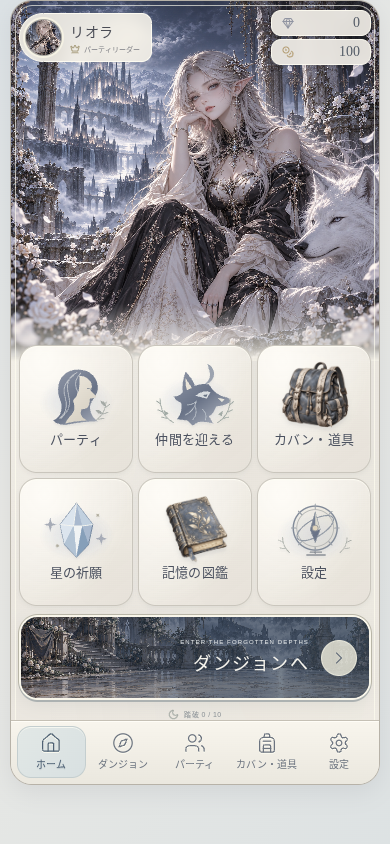
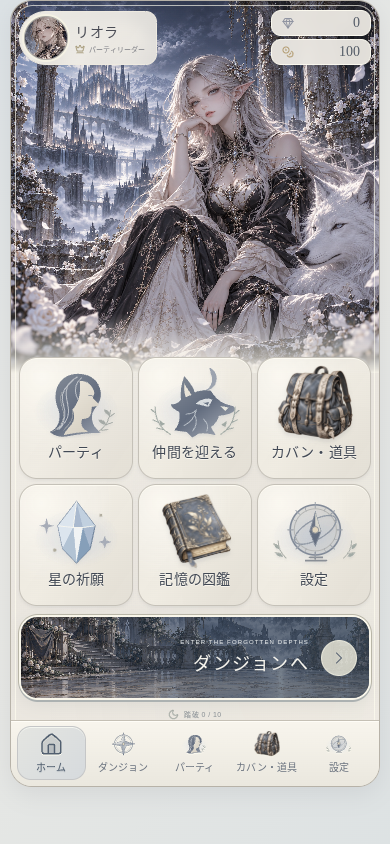
feat: bring portrait framing and engraved controls closer to reference

diff --git a/src/ui/battle.css b/src/ui/battle.css
@@ -69,16 +69,16 @@
 .battle-layout .enemy-line--1 .enemy-unit--boss .enemy-art { height: calc(100% + 65px); max-height: none; }
 .battle-layout .battle-toast { top: 76px; padding: 9px 17px; font-size: 11px; border-radius: 9px; color: #4f5a69; border-color: #c9c6bd; background: #f8f6eef2; box-shadow: 0 4px 17px #273b4e28; }
 .battle-layout .battle-toast.dialogue-toast { top: auto; bottom: 16px; width: 87%; padding: 12px 18px; line-height: 1.8; }
-.battle-layout .party-strip { position: relative; z-index: 3; display: grid; grid-template-columns: repeat(4,minmax(0,1fr)); gap: 5px; padding: 7px 8px 6px; margin: 0; border-radius: 15px 15px 0 0; border: 1px solid #c6c4ba; background: linear-gradient(#fcfaf3,#eeece3); box-shadow: 0 -3px 14px #20344712,inset 0 1px 0 #ffffff; }
+.battle-layout .party-strip { position: relative; z-index: 3; display: grid; grid-template-columns: repeat(4,minmax(0,1fr)); gap: 5px; padding: 7px 8px 6px; margin: 0; border-radius: 10px 10px 0 0; border: 1px solid #c6c4ba; background: linear-gradient(#f4f2e9,#e7e6df); box-shadow: 0 -3px 14px #20344712,inset 0 1px 0 #ffffff; }
 .battle-layout .party-unit { width: 100%; min-width: 0; }
-.battle-layout .party-unit > .character-portrait { padding: 0; width: 100%; gap: 3px; border-radius: 8px; border: 1px solid #bbbeb8; background: #f7f5ed; box-shadow: 0 1px 3px #43536619; }
-.battle-layout .party-strip .portrait-image { border-radius: 6px 6px 0 0; aspect-ratio: 1.22; }
-.battle-layout .party-strip .portrait-copy { padding-inline: 4px; padding-top: 1px; gap: 0; }
+.battle-layout .party-unit > .character-portrait { padding: 0; width: 100%; gap: 1px; border-radius: 5px; border: 1px solid #b6b9b3; background: #f0efe8; box-shadow: none; }
+.battle-layout .party-strip .portrait-image { border-radius: 3px 3px 0 0; aspect-ratio: 1.15; }
+.battle-layout .party-strip .portrait-copy { padding-inline: 3px; padding-top: 0; gap: 0; }
 .battle-layout .party-strip .portrait-copy strong { font-family: var(--font-display); font-size: 10px; line-height: 1.2; }
 .battle-layout .party-strip .portrait-constant { display: none; }
 .battle-layout .party-strip .leader-mark { width: 18px; height: 18px; left: 3px; top: 3px; background: #69737dd9; color: #f7edd5; }
 .battle-layout .party-strip .leader-mark svg { width: 10px; height: 10px; }
-.battle-layout .party-strip .hp-meter { padding: 3px 4px 4px; }
+.battle-layout .party-strip .hp-meter { padding: 2px 3px 3px; }
 .battle-layout .party-strip .hp-bar { height: 5px; background: #c9cfce; border: 1px solid #b5bfbd; border-radius: 7px; }
 .battle-layout .party-strip .hp-bar > span { background: linear-gradient(90deg,#739e99,#c3d5cc); }
 .battle-layout .party-hp { display: none; }
@@ -89,20 +89,21 @@
 .battle-layout .command-heading .toolbar { flex-shrink: 0; gap: 5px; }
 .battle-layout .command-heading .button { padding: 6px 10px; min-height: 44px; border-radius: 50px; background: #f4f1e7; font-size: 9px; border-color: #cacbc3; }
 /* A large tactile strategy selector replaces a decorative movement pad. */
-.battle-layout .strategy-options { grid-column: 1; grid-row: 2; width: min(100%,248px); aspect-ratio: 1; justify-self: center; display: flex; flex-direction: column; align-items: stretch; justify-content: center; gap: 6px; margin: 0; padding: 29px 25px; border: 1px solid #9caeb8; border-radius: 50%; background: radial-gradient(ellipse at 34% 18%,#f7faf9,#d4dee1 46%,#adbfc9 76%,#91a7b7); box-shadow: inset 0 1px 0 #fffefa,inset 0 0 0 5px #edf0ed,inset 0 0 0 6px #9eadba,inset 0 0 0 10px #d6dfe3,inset 0 0 0 11px #a5b7c466,0 4px 10px #41556722; }
-.battle-layout .strategy-options .button { flex: 0 0 auto; min-height: 52px; padding: 7px 12px; display: flex; flex-direction: row; align-items: center; justify-content: flex-start; gap: 10px; border: 1px solid #b8c3ca78; border-radius: 28px; background: linear-gradient(135deg,#f4f7f4a6,#dce3e442); color: #526c80; box-shadow: inset 0 1px 0 #f8faf6d9,0 1px 2px #526a7b0d; }
+.battle-layout .strategy-options { grid-column: 1; grid-row: 2; width: min(100%,248px); aspect-ratio: 1; justify-self: center; display: flex; flex-direction: column; align-items: stretch; justify-content: center; gap: 6px; margin: 0; padding: 29px 25px; border: 1px solid #9caeb8; border-radius: 50%; background: radial-gradient(ellipse at 35% 18%,#e4e4de,#bfc4c5 65%,#a8b0b5); box-shadow: inset 0 1px 0 #f6f4eb,inset 0 0 0 4px #e6e5df,inset 0 0 0 5px #9da7ad,inset 0 0 0 8px #c6cbcd,inset 0 0 0 9px #adb3b780,0 3px 8px #414b5420; }
+.battle-layout .strategy-options .button { flex: 0 0 auto; min-height: 52px; padding: 7px 12px; display: flex; flex-direction: row; align-items: center; justify-content: flex-start; gap: 10px; border: 1px solid #b8c3ca78; border-radius: 28px; background: linear-gradient(135deg,#e8e8e3b8,#d1d5d44a); color: #465661; box-shadow: inset 0 1px 0 #f3f2e9b0,0 1px 2px #526a7b0d; }
 .battle-layout .strategy-options .button:not(.is-selected):hover:not(:disabled) { border-color: #8da5b6; background: #f1f6f3c9; box-shadow: inset 0 1px 0 #ffffff,0 1px 3px #526a7b1c; }
-.battle-layout .strategy-options .button.is-selected { background: radial-gradient(ellipse at 32% 5%,#b3c4ce,#7c96a9 62%,#617e96); color: #ffffff; border-color: #92a7b8; box-shadow: inset 0 1px 0 #ecf3f4,inset 0 0 0 2px #d8e3e975,0 2px 4px #3a4d5c21; }
+.battle-layout .strategy-options .button.is-selected { background: linear-gradient(150deg,#89959c,#667580); color: #ffffff; border-color: #7b8a94; box-shadow: inset 0 1px 0 #dce0dd99,inset 0 0 0 1px #c1c9cd70,0 1px 3px #3a4d5c21; }
 .battle-layout .strategy-options .button > svg { box-sizing: border-box; width: 26px; height: 26px; padding: 0; stroke-width: 1.5; border: 0; background: transparent; box-shadow: none; filter: drop-shadow(0 1px 0 #ffffff60); }
 .battle-layout .strategy-options .button.is-selected > svg { filter: drop-shadow(0 1px 2px #3d526551); }
 .battle-layout .strategy-options .button > span { display: block; font-family: var(--font-display); font-size: 13px; line-height: 1.4; white-space: nowrap; }
 .battle-layout .strategy-options .button small { display: none; }
 .battle-layout .command-actions { grid-column: 2; grid-row: 2; display: grid; width: 100%; grid-template-columns: 1fr auto; align-items: center; justify-items: center; gap: 10px 8px; }
-.battle-layout .command-actions .battle-item-control { grid-column: 1; grid-row: 2; width: 86px; height: 86px; min-height: 86px; padding: 10px; border-radius: 50%; display: flex; flex-direction: column; gap: 4px; border: 1px solid #aebec0; background: radial-gradient(circle at 35% 23%,#ffffff,#d4dfe0 58%,#b5c6ca); box-shadow: inset 0 1px 0 #ffffff,inset 0 0 0 4px #f3f6f0,inset 0 0 0 5px #aabdc2,inset 0 0 0 8px #e0e9e6,0 4px 8px #4155621c; color: #4f6d7e; }
+.battle-layout .command-actions .battle-item-control { grid-column: 1; grid-row: 2; width: 86px; height: 86px; min-height: 86px; padding: 10px; border-radius: 50%; display: flex; flex-direction: column; gap: 4px; border: 1px solid #aebec0; background: radial-gradient(circle at 35% 23%,#e9e8df,#c5cbca 65%,#acb7bc); box-shadow: inset 0 1px 0 #f4f2e8,inset 0 0 0 3px #e6e6dd,inset 0 0 0 4px #a1aeb4,inset 0 0 0 6px #d3d8d5,0 3px 6px #41556218; color: #465b67; }
+.battle-layout .battle-item-control > svg { width: 28px; height: 28px; flex-shrink: 0; }
 .battle-layout .battle-item-control > span { font-size: 11px; line-height: 1.2; }
 .battle-layout .battle-item-control small { margin-left: 3px; font-family: var(--font-display); }
-.battle-layout .command-actions .battle-advance-control { grid-column: 1 / -1; grid-row: 1; width: 164px; height: 164px; min-height: 164px; padding: 23px 14px; border-radius: 50%; display: flex; flex-direction: column; gap: 10px; border: 1px solid #a6b2bd; background: radial-gradient(ellipse at 35% 15%,#d2dae1,#98aabd 38%,#778da3 72%,#657b92); color: #ffffff; box-shadow: inset 0 1px 0 #ffffff,inset 0 0 0 4px #eff0eb,inset 0 0 0 5px #899aac,inset 0 0 0 8px #cbd4dc,inset 0 0 0 9px #9aaabc,0 5px 12px #3a4e5f30; text-shadow: 0 1px 3px #3f566b70; }
-.battle-layout .battle-advance-control > svg { width: 43px; height: 43px; filter: drop-shadow(0 1px 3px #31475e2b); }
+.battle-layout .command-actions .battle-advance-control { grid-column: 1 / -1; grid-row: 1; width: 164px; height: 164px; min-height: 164px; padding: 23px 14px; border-radius: 50%; display: flex; flex-direction: column; gap: 10px; border: 1px solid #a6b2bd; background: radial-gradient(ellipse at 35% 18%,#a4acb3,#818d9a 57%,#6c7988); color: #f7f5ed; box-shadow: inset 0 1px 0 #e9e8df,inset 0 0 0 3px #e5e4dc,inset 0 0 0 4px #8a949e,inset 0 0 0 7px #bcc3ca,inset 0 0 0 8px #939da8,0 3px 8px #3a4e5f28; text-shadow: 0 1px 2px #3f4d5970; }
+.battle-layout .battle-advance-control > svg { width: 61px; height: 61px; filter: drop-shadow(0 1px 3px #31475e2b); }
 .battle-layout .battle-advance-control > span { max-width: 110px; font-family: var(--font-display); font-size: 13px; line-height: 1.4; text-align: center; }
 .battle-layout .command-actions .battle-retreat-control { grid-column: 2; grid-row: 2; width: 44px; height: 44px; min-height: 44px; padding: 9px; border-radius: 50%; border: 1px solid #c6c8c1; background: #f2f0e7; color: #8a9394; }
 .battle-layout .command-note { grid-column: 1 / -1; grid-row: 3; margin: 0; font-size: 9px; letter-spacing: .02em; color: #909995; }
@@ -124,7 +125,7 @@
   .battle-layout .enemy-line--1 .enemy-name { font-size: 16px; }
   .battle-layout .enemy-line--1 .enemy-art { height: calc(100% + 65px); padding: 0; }
   .battle-layout .party-strip { padding: 6px 6px 5px; gap: 4px; }
-  .battle-layout .party-strip .portrait-image { aspect-ratio: 1.13; }
+  .battle-layout .party-strip .portrait-image { aspect-ratio: 1.08; }
   .battle-layout .party-strip .portrait-copy strong { font-size: 9px; }
   .battle-layout .command-pad { grid-template-columns: minmax(0,1fr) 132px; column-gap: 12px; row-gap: 6px; padding: 11px 13px 10px; }
   .battle-layout .command-heading { margin: 0; }
@@ -136,7 +137,8 @@
   .battle-layout .command-actions { grid-template-columns: 76px 44px; justify-content: center; gap: 8px; }
   .battle-layout .command-actions .battle-item-control { width: 72px; height: 72px; min-height: 72px; padding: 8px; }
   .battle-layout .command-actions .battle-advance-control { width: 126px; height: 126px; min-height: 126px; padding: 18px 10px; gap: 7px; }
-  .battle-layout .battle-advance-control > svg { width: 36px; height: 36px; }
+  .battle-layout .battle-advance-control > svg { width: 52px; height: 52px; }
+  .battle-layout .battle-item-control > svg { width: 24px; height: 24px; }
   .battle-layout .battle-advance-control > span { max-width: 92px; font-size: 11px; }
   .battle-layout .command-note { font-size: 8px; margin: 0; text-align: left; padding-left: 6px; }
 

diff --git a/src/screens/GameViews.tsx b/src/screens/GameViews.tsx
@@ -1,6 +1,6 @@
 import { useState } from 'react';
 import { ArrowRight, Backpack, BookOpen, ChevronRight, CircleHelp, Coins, Compass, Crown, Gem, Heart, Hexagon, Moon, Plus, Shield, Sparkles, Swords, Users, Volume2, VolumeX, WandSparkles, FlaskConical, Check, DoorOpen, FastForward, Play, Package, Settings, Feather } from 'lucide-react';
-import { Button, Panel, CharacterPortrait, MaterialIcon, HPBar, Modal, MenuEmblem, EnemyCarousel, SceneEffects, TownNavigation } from '../ui';
+import { Button, Panel, CharacterPortrait, MaterialIcon, HPBar, Modal, MenuEmblem, EnemyCarousel, SceneEffects, TownNavigation, CommandEmblem } from '../ui';
 import { content, assetPath, characterById, materialName, roleName } from '../content';
 import { characterStats, dungeonDifficulty, leaderBonus, recruitCost } from '../domain/engine';
 import type { Battle, CharacterDef, GameCommand, GameSave, Rarity, Strategy, Unit } from '../domain/types';
@@ -106,7 +106,7 @@ export function BattleView(p: ViewProps) {
   const items = Object.entries(battle.pendingMaterials).filter(([, n]) => n > 0);
   const total = items.reduce((n, [, amount]) => n + amount, 0) - (battle.phase === 'playing' ? battle.events.slice(battle.cursor).filter(e => e.kind === 'drop').length : 0);
   const displayRound = battle.phase === 'playing' && battle.events.some(e => ['attack', 'area', 'heal', 'guard', 'buff', 'debuff'].includes(e.kind)) ? Math.max(1, battle.round - 1) : battle.round;
-  const strategies: { id: Strategy; name: string; icon: typeof Shield; sub: string }[] = [{ id: 'balanced', name: '均衡', icon: Compass, sub: '回復を織り交ぜる' }, { id: 'aggressive', name: '攻撃重視', icon: Swords, sub: '強敵を狙う' }, { id: 'survival', name: '生存重視', icon: Shield, sub: '早めの回復' }];
+  const strategies: { id: Strategy; name: string }[] = [{ id: 'balanced', name: '均衡' }, { id: 'aggressive', name: '攻撃重視' }, { id: 'survival', name: '生存重視' }];
   const reward = battle.phase === 'reward', failed = battle.phase === 'failed';
   if (reward || failed) return <><PageTitle eyebrow={reward ? 'EXPLORATION COMPLETE' : 'THE JOURNEY CONTINUES'} title={reward ? '探索の記録' : '探索終了'} text={dungeon.name} /><Panel className="result-panel">{reward ? <Sparkles size={38} /> : <Moon size={38} />}<h2>{reward ? '獲得素材' : '今回の素材は失われました。'}</h2>{reward ? <><div className="resource-list">{items.map(([id, n]) => <div className="resource-item" key={id}><MaterialIcon rarity={id.split(':')[1] as Rarity} /><span>{materialName(id)}</span><strong>×{n}</strong></div>)}</div><div className="reward-summary"><span><Coins size={17} /> 撃破 {battle.goldEarned} G（取得済み）</span><span>クリア +20 G</span>{!p.save.completedDungeonIds.includes(dungeon.id) && <span><Gem size={17} /> 初踏破 +1</span>}</div><p className="subtle">確定するまで素材は仮取得です。</p><Button size="lg" disabled={p.busy} onClick={() => p.command({ type: 'claim' })}><Check size={18} /> 獲得を確定</Button></> : <><p>{battle.failureReason ?? 'パーティは廃都から帰還しました。'}</p><p className="subtle">ゴールド・敵の記録は保持。次回は全回復で出発します。</p><Button size="lg" disabled={p.busy} onClick={() => p.command({ type: 'leaveFailure' })}>街へ戻る <ArrowRight size={16} /></Button></>}</Panel></>;
   return <div className="battle-layout">
@@ -131,10 +131,10 @@ export function BattleView(p: ViewProps) {
     </div>
     <Panel className="command-pad">
       <div className="command-heading"><span className="eyebrow">{usingPotion ? '回復する仲間を選択' : battle.phase === 'playing' ? '行動中' : '作戦'}</span><div className="toolbar">{usingPotion && <Button size="sm" variant="secondary" onClick={() => setUsingPotion(false)}>取消</Button>}<Button variant="icon" title={p.save.settings.seVolume === 0 ? '効果音を有効にする' : '効果音をミュート'} disabled={p.busy} onClick={() => p.command({ type: 'settings', settings: { seVolume: p.save.settings.seVolume === 0 ? 0.5 : 0 } })}>{p.save.settings.seVolume === 0 ? <VolumeX size={17} /> : <Volume2 size={17} />}</Button><Button size="sm" variant="secondary" disabled={p.busy} title="演出速度" onClick={() => p.command({ type: 'settings', settings: { speed: p.save.settings.speed === 1 ? 2 : 1 } })}><FastForward size={14} /> ×{p.save.settings.speed}</Button></div></div>
-      <div className="strategy-options" aria-label="作戦を選ぶ">{strategies.map(st => <Button variant={battle.strategy === st.id ? 'primary' : 'secondary'} selected={battle.strategy === st.id} key={st.id} disabled={p.busy || battle.phase !== 'ready'} onClick={() => p.command({ type: 'strategy', strategy: st.id })}><st.icon size={27} strokeWidth={1.25} /><span>{st.name}<small>{st.sub}</small></span></Button>)}</div>
+      <div className="strategy-options" aria-label="作戦を選ぶ">{strategies.map(st => <Button variant={battle.strategy === st.id ? 'primary' : 'secondary'} selected={battle.strategy === st.id} key={st.id} disabled={p.busy || battle.phase !== 'ready'} onClick={() => p.command({ type: 'strategy', strategy: st.id })}><CommandEmblem kind={st.id} /><span>{st.name}</span></Button>)}</div>
       <div className="command-actions">
-        <Button variant="secondary" className="battle-item-control" disabled={p.busy || battle.phase !== 'ready' || battle.potionUsed || !battle.potionsRemaining} onClick={() => setUsingPotion(!usingPotion)}><FlaskConical size={30} strokeWidth={1.2} /><span>回復薬 <small>{battle.potionsRemaining}</small></span></Button>
-        {battle.phase === 'playing' ? <Button size="lg" className="battle-advance-control" disabled={p.busy} onClick={() => p.command({ type: 'replay' })} aria-label="次の演出へ"><FastForward size={35} strokeWidth={1.1} /><span>次の演出へ</span></Button> : <Button size="lg" className="battle-advance-control" disabled={p.busy || usingPotion} onClick={() => p.command({ type: 'round' })} aria-label="ラウンドを進める"><Play size={36} strokeWidth={1.1} /><span>ラウンドを進める</span></Button>}
+        <Button variant="secondary" className="battle-item-control" disabled={p.busy || battle.phase !== 'ready' || battle.potionUsed || !battle.potionsRemaining} onClick={() => setUsingPotion(!usingPotion)}><CommandEmblem kind="potion" /><span>回復薬 <small>{battle.potionsRemaining}</small></span></Button>
+        {battle.phase === 'playing' ? <Button size="lg" className="battle-advance-control" disabled={p.busy} onClick={() => p.command({ type: 'replay' })} aria-label="次の演出へ"><CommandEmblem kind="replay" /><span>次へ</span></Button> : <Button size="lg" className="battle-advance-control" disabled={p.busy || usingPotion} onClick={() => p.command({ type: 'round' })} aria-label="ラウンドを進める"><CommandEmblem kind="advance" /><span>進める</span></Button>}
         <Button variant="icon" className="battle-retreat-control" title="撤退" disabled={p.busy || battle.phase !== 'ready'} onClick={() => setRetreat(true)}><DoorOpen size={20} strokeWidth={1.3} /></Button>
       </div>
     </Panel>

diff --git a/src/ui/home.css b/src/ui/home.css
@@ -22,7 +22,7 @@
 }
 .hub-illustration {
   position: relative;
-  height: 410px;
+  height: 422px;
   margin: 0 -11px;
   overflow: hidden;
   border-radius: 27px 27px 0 0;
@@ -31,7 +31,7 @@
   width: 100%;
   height: 100%;
   object-fit: cover;
-  object-position: 50% 50%;
+  object-position: 50% 18%;
 }
 .hub-illustration::after {
   content: '';
@@ -55,23 +55,24 @@
   align-items: center;
   gap: 10px;
   min-width: 0;
-  padding: 6px 17px 6px 7px;
-  background: #f3f0e7e6;
-  border: 1px solid #fdfbf1;
-  border-radius: 35px 15px 15px 35px;
+  padding: 5px 17px 5px 6px;
+  background: linear-gradient(125deg, #faf7eeed, #e7e4deeb);
+  border: 1px solid #eeeae0;
+  border-radius: 36px 15px 15px 36px;
   box-shadow: 0 2px 8px #202c3a17;
   backdrop-filter: blur(6px);
 }
 .hub-profile-avatar {
-  width: 47px;
-  height: 47px;
+  width: 54px;
+  height: 54px;
+  flex-shrink: 0;
   border-radius: 50%;
   overflow: hidden;
   border: 1px solid #a8a6a0;
   box-shadow: 0 0 0 2px #f5f2e4;
   background: #d4d8da;
 }
-.hub-profile-avatar img { width: 100%; height: 100%; object-fit: cover; object-position: 50% 10%; transform: scale(1.5); transform-origin: 50% 20%; }
+.hub-profile-avatar img { width: 100%; height: 100%; object-fit: cover; object-position: 50% 10%; transform: scale(2.35); transform-origin: 50% 18%; }
 .hub-profile-copy { min-width: 0; }
 .hub-profile-copy > strong { display: block; font-family: var(--font-display); color: #4a4c55; font-weight: 500; font-size: 17px; letter-spacing: .05em; }
 .hub-profile-copy > span { display: flex; align-items: center; gap: 4px; font-size: 8px; color: #7c7d83; margin-top: 3px; }
@@ -109,21 +110,21 @@
   justify-content: center;
   gap: 0;
   min-width: 0;
-  min-height: 139px;
-  padding: 7px 6px 13px;
-  border: 1px solid #c9c5bc;
+  min-height: 133px;
+  padding: 4px 6px 11px;
+  border: 1px solid #c4c0b7;
   border-radius: 23px;
-  background: radial-gradient(ellipse at 22% 12%, #fffdf8e6, transparent 70%), radial-gradient(ellipse at 80% 78%, #a89b830d, transparent 64%), linear-gradient(145deg, #f4f0e9f7, #e9e5ddec);
-  box-shadow: inset 0 1px 1px #fffef5e6, 0 2px 4px #414b5510;
-  color: #4c5260;
+  background: radial-gradient(ellipse at 19% 15%, #fffdf7b8, transparent 56%), radial-gradient(ellipse at 85% 88%, #b3a99416, transparent 66%), linear-gradient(125deg, #ece8dfef, #f0ece3f2 48%, #e7e3dbf0);
+  box-shadow: inset 0 1px 0 #fffdf3d9, 0 2px 3px #414b5514;
+  color: #424955;
   text-align: center;
   overflow: hidden;
 }
 .home-hub-menu .hub-menu-tile::after { content: none; }
 .home-hub-menu .hub-menu-tile:hover:not(:disabled) { background: linear-gradient(135deg, #fcfaf4, #eeeae4); border-color: #aeb4b7; box-shadow: inset 0 1px 1px #fffef5, 0 5px 12px #36415216; transform: translateY(-1px); }
-.menu-emblem { width: 107px; height: 83px; flex-shrink: 0; filter: drop-shadow(0 2px 1px #49556515); }
-.menu-emblem--painted { object-fit: contain; padding: 1px 7px 2px; transform: scale(1.08); filter: drop-shadow(0 3px 2px #3b46521d); -webkit-user-drag: none; }
-.hub-menu-tile > strong { position: relative; z-index: 1; font-family: var(--font-display); font-size: 16px; font-weight: 500; letter-spacing: .05em; white-space: nowrap; }
+.menu-emblem { width: 119px; height: 91px; flex-shrink: 0; filter: drop-shadow(0 2px 1px #49556515); }
+.menu-emblem--painted { object-fit: contain; padding: 1px 9px 2px; transform: scale(1.08); filter: drop-shadow(0 3px 2px #3b46521d); -webkit-user-drag: none; }
+.hub-menu-tile > strong { position: relative; z-index: 1; font-family: var(--font-display); font-size: 16px; font-weight: 500; letter-spacing: .055em; white-space: nowrap; text-shadow: 0 1px 0 #fffdf6a6; }
 .home-hub .hub-dungeon-entry {
   position: relative;
   isolation: isolate;
@@ -154,11 +155,11 @@
 @media (max-width: 760px) {
   .home-hub { width: 100%; max-width: 430px; border-radius: 22px; padding: 0 8px 10px; box-shadow: 0 2px 0 #faf9f1 inset, 0 7px 25px #313a4718; }
   .home-hub::after { inset: 4px; border-radius: 18px; }
-  .hub-illustration { height: 360px; margin-inline: -8px; border-radius: 21px 21px 0 0; }
+  .hub-illustration { height: 372px; margin-inline: -8px; border-radius: 21px 21px 0 0; }
   .hub-illustration > img { object-position: 50% 50%; }
   .hub-profile { top: 9px; left: 8px; right: 8px; gap: 7px; }
-  .hub-profile-person { gap: 8px; padding: 5px 11px 5px 5px; }
-  .hub-profile-avatar { width: 37px; height: 37px; }
+  .hub-profile-person { gap: 7px; padding: 4px 11px 4px 4px; }
+  .hub-profile-avatar { width: 44px; height: 44px; }
   .hub-profile-copy > strong { font-size: 14px; }
   .hub-profile-copy > span { font-size: 7px; }
   .hub-currencies { min-width: 100px; gap: 3px; }
@@ -169,10 +170,10 @@
   .hub-scene-note > span { font-size: 6px; letter-spacing: .2em; }
   .hub-scene-note > p { font-size: 14px; letter-spacing: .08em; }
   .home-hub-menu { gap: 5px; margin-top: -16px; }
-  .home-hub-menu .hub-menu-tile { min-height: 128px; padding: 4px 3px 10px; border-radius: 18px; }
+  .home-hub-menu .hub-menu-tile { min-height: 122px; padding: 3px 3px 9px; border-radius: 18px; }
   .home-hub-menu .hub-menu-tile::after { inset: 4px; border-radius: 14px; }
-  .menu-emblem { width: 85px; height: 67px; }
-  .hub-menu-tile > strong { font-size: 13px; letter-spacing: .015em; }
+  .menu-emblem { width: 97px; height: 75px; }
+  .hub-menu-tile > strong { font-size: 14px; letter-spacing: .015em; }
   .home-hub .hub-dungeon-entry { min-height: 85px; margin-top: 9px; border-radius: 19px; padding: 10px 12px; gap: 12px; }
   .hub-dungeon-entry strong { font-size: 18px; letter-spacing: .07em; }
   .hub-dungeon-entry small { font-size: 6px; }
@@ -185,6 +186,8 @@
   .home-hub .hub-dungeon-entry { min-height: 72px; }
 }
 @media (max-width: 359px) {
+  .hub-profile-person { gap: 5px; padding-right: 8px; }
+  .hub-profile-copy > strong { font-size: 13px; }
   .hub-menu-tile > strong { font-size: 12px; letter-spacing: 0; }
-  .menu-emblem { width: 76px; height: 61px; }
+  .menu-emblem { width: 86px; height: 66px; }
 }

diff --git a/src/ui/CommandEmblem.tsx b/src/ui/CommandEmblem.tsx
@@ -1,0 +1,59 @@
+import { useId } from 'react';
+import './command-emblem.css';
+
+export type CommandEmblemKind = 'balanced' | 'aggressive' | 'survival' | 'advance' | 'replay' | 'potion';
+
+/** Engraved command symbols share one material treatment across every combatant. */
+export function CommandEmblem({ kind }: { kind: CommandEmblemKind }) {
+  const id = useId().replace(/:/g, '');
+  const metal = `url(#${id}-silver)`;
+  return <svg className={`command-emblem command-emblem--${kind}`} viewBox="0 0 80 80" fill="none" aria-hidden="true">
+    <defs>
+      <linearGradient id={`${id}-silver`} x1="16" y1="12" x2="63" y2="72" gradientUnits="userSpaceOnUse">
+        <stop className="command-emblem__light" /><stop offset=".49" className="command-emblem__middle" /><stop offset="1" className="command-emblem__shade" />
+      </linearGradient>
+    </defs>
+    {emblemShape(kind, metal)}
+  </svg>;
+}
+
+function emblemShape(kind: CommandEmblemKind, metal: string) {
+  switch (kind) {
+    case 'advance':
+    case 'aggressive': return <g strokeLinecap="round" strokeLinejoin="round">
+      <path d="m17 9 13 6 29 34-8 7L21 23 17 9Z" fill={metal} stroke="currentColor" strokeWidth="1.1" />
+      <path d="m20 13 34 38" stroke="#fffdf1" strokeWidth="1.4" opacity=".75" />
+      <path d="m63 9-13 6-29 34 8 7 30-33 4-14Z" fill={metal} stroke="currentColor" strokeWidth="1.1" />
+      <path d="m60 13-34 38" stroke="#fffdf1" strokeWidth="1.4" opacity=".8" />
+      <path d="m15 48 16 14m-3-4-10 12-5-4 11-12m25-6 16 14m-13-5 10 13 5-4-11-12" fill={metal} stroke="currentColor" strokeWidth="2.2" />
+      <path d="m12 47 5-3m14 17 1 5m16-19-1-4m17 19 5 1" stroke="currentColor" strokeWidth="2" />
+    </g>;
+    case 'balanced': return <>
+      <circle cx="40" cy="40" r="28" stroke="currentColor" strokeWidth="1.5" />
+      <circle cx="40" cy="40" r="24" stroke="currentColor" strokeWidth=".7" opacity=".55" />
+      <path d="m40 5 6 27 29 8-29 7-6 28-7-28-28-7 28-8 7-27Z" fill={metal} stroke="currentColor" strokeWidth="1" />
+      <path d="m40 5 0 35 35 0-29-8-6-27Zm0 35v35l-7-28-28-7h35Z" fill="currentColor" opacity=".35" />
+      <circle cx="40" cy="40" r="4" fill="#ded5bd" stroke="currentColor" strokeWidth="1.2" />
+    </>;
+    case 'survival': return <>
+      <path d="M40 8c9 7 17 10 27 11v25c-1 13-12 23-27 29-15-6-26-16-27-29V19c10-1 18-4 27-11Z" fill={metal} stroke="currentColor" strokeWidth="1.8" />
+      <path d="M40 14c7 6 14 8 21 10v19c-1 10-9 18-21 24-12-6-20-14-21-24V24c7-2 14-4 21-10Z" stroke="#fffdf1" strokeWidth="1.2" opacity=".75" />
+      <path d="m40 23 4 13 12 5-12 4-4 15-4-15-12-4 12-5 4-13Z" fill="currentColor" opacity=".5" />
+      <path d="M40 29v24" stroke="#fffdf1" strokeWidth="1.4" opacity=".7" />
+    </>;
+    case 'potion': return <>
+      <path d="M31 10h18v9H31z" fill={metal} stroke="currentColor" strokeWidth="1.4" />
+      <path d="M33 19v15c-11 8-16 15-16 24 0 11 9 16 23 16s23-5 23-16c0-9-5-16-16-24V19H33Z" fill={metal} fillOpacity=".5" stroke="currentColor" strokeWidth="1.7" />
+      <path d="M24 51c7-3 12 3 18 0s10-3 15 0c3 12-1 17-17 17s-20-5-16-17Z" className="command-emblem__liquid" />
+      <path d="M28 39c-5 5-8 11-8 17m8-9c-3 5-3 10-1 14" stroke="#fffdf1" strokeWidth="2.5" strokeLinecap="round" opacity=".85" />
+      <path d="M31 15h18M33 25h14" stroke="currentColor" strokeWidth="1" opacity=".6" />
+      <circle cx="49" cy="58" r="2" fill="#f9f6e9" opacity=".75" />
+    </>;
+    case 'replay': return <>
+      <path d="m17 18 22 22-22 22V18Zm26 0 22 22-22 22V18Z" fill={metal} stroke="currentColor" strokeWidth="1.4" strokeLinejoin="round" />
+      <path d="m20 23 17 17m9-17 17 17" stroke="#fffdf1" strokeWidth="1.5" opacity=".8" />
+    </>;
+  }
+  const unsupported: never = kind;
+  throw new Error(`Unknown command emblem: ${unsupported}`);
+}

diff --git a/src/ui/MenuEmblem.tsx b/src/ui/MenuEmblem.tsx
@@ -10,7 +10,7 @@ export function MenuEmblem({ kind }: { kind: MenuEmblemKind }) {
   if (kind === 'bag' || kind === 'codex') return <img className={`menu-emblem menu-emblem--painted menu-emblem--${kind}`} src={assetPath(`menu-${kind}`)} alt="" aria-hidden="true" draggable={false} />;
   return <svg className={`menu-emblem menu-emblem--${kind}`} viewBox="0 0 120 92" fill="none" aria-hidden="true">
     <defs>
-      <linearGradient id={`${id}-metal`} x1="32" y1="14" x2="86" y2="84" gradientUnits="userSpaceOnUse"><stop stopColor="#8d94a4" /><stop offset=".56" stopColor="#697387" /><stop offset="1" stopColor="#a2a8b5" /></linearGradient>
+      <linearGradient id={`${id}-metal`} x1="32" y1="14" x2="86" y2="84" gradientUnits="userSpaceOnUse"><stop stopColor="#818995" /><stop offset=".56" stopColor="#626c7e" /><stop offset="1" stopColor="#979eaa" /></linearGradient>
       <linearGradient id={`${id}-paper`} x1="28" y1="19" x2="87" y2="81" gradientUnits="userSpaceOnUse"><stop stopColor="#f2ede2" /><stop offset="1" stopColor="#d2ccbf" /></linearGradient>
       <radialGradient id={`${id}-halo`}><stop stopColor="#d7dce4" stopOpacity=".78" /><stop offset="1" stopColor="#d7dce4" stopOpacity="0" /></radialGradient>
     </defs>
@@ -19,6 +19,7 @@ export function MenuEmblem({ kind }: { kind: MenuEmblemKind }) {
       <path d="M27 80c9-4 12-11 12-20 0-8-5-12-5-24 0-17 12-28 28-28 18 0 29 12 28 28-1 7-4 11-8 16-3 5-4 10-2 16 1 5 5 9 10 13-16 0-28 2-39 4-9 2-18 1-24-5Z" fill={metal} />
       <path d="M64 17c9-1 17 6 18 15l-2 6 7 7c1 1 0 3-2 3l-6 1-1 8c-1 5-5 7-11 7-3 7 0 12 8 16-11 0-22 2-31 4 2-7 9-10 12-17 2-5 1-10-1-15 7-7 11-19 9-35Z" fill={paper} />
       <path d="M61 12c-14 7-16 17-12 33 4 17-3 23-11 32M56 16c-13 10-16 19-12 31 5 16-2 25-8 30M66 13c-9 8-9 18-4 27" stroke="#bdc1c7" strokeWidth="1.25" strokeLinecap="round" />
+      <path d="M42 31c-6 13 7 25 0 37-3 6-8 10-13 12m15-2c8-9 13-14 11-24M72 18c6 4 9 9 9 15" stroke="#e1dfd4" strokeOpacity=".6" strokeWidth=".65" strokeLinecap="round" />
       <path d="M75 35c2-1 4 0 5 1" stroke="#747e8c" strokeWidth="1" strokeLinecap="round" />
       <path d="M88 79c9-6 13-15 14-26m-2 9 7-5m-10 14 8-3m-14 10 8-1" stroke="#a5aaa6" strokeWidth="1.15" strokeLinecap="round" />
       <path d="M101 60c-5-2-7-5-7-8 5 1 8 3 7 8Zm-5 11c-5 0-8-3-9-6 6-1 9 2 9 6Z" fill="#a5aaa6" />
@@ -47,13 +48,15 @@ export function MenuEmblem({ kind }: { kind: MenuEmblemKind }) {
     </>}
     {kind === 'settings' && <>
       <path d="M49 82h26M54 78h16M61 72v8" stroke="#8a8f96" strokeWidth="2" strokeLinecap="round" />
-      <circle cx="61" cy="44" r="31" fill={paper} fillOpacity=".35" stroke="#818a98" strokeWidth="2" />
+      <circle cx="61" cy="44" r="31" fill={metal} fillOpacity=".17" stroke="#818a98" strokeWidth="2" />
       <circle cx="61" cy="44" r="26" stroke="#b3b4b2" strokeWidth="1.2" />
+      <path d="m48 16 2 5m24-5-2 5M33 31l5 2m46 22 5 2M33 57l5-2m46-22 5-2M48 72l2-5m24 5-2-5" stroke="#9b9fa3" strokeWidth=".7" />
       <ellipse cx="61" cy="44" rx="29" ry="12" transform="rotate(-30 61 44)" stroke="#9199a4" strokeWidth="1.6" />
       <path d="M61 10v7m0 54v7M27 44h7m54 0h7M37 20l5 5m38 38 5 5M37 68l5-5m38-38 5-5" stroke="#9ca2aa" strokeWidth="1.3" strokeLinecap="round" />
       <path d="m61 22 7 24-7 18-7-18 7-24Z" fill={metal} stroke="#848d9a" strokeWidth="1" />
       <path d="m61 22 0 25 7-1-7-24Z" fill="#d7d6cc" />
       <circle cx="61" cy="44" r="4" fill="#e0d5bd" stroke="#92959a" strokeWidth="1.1" />
+      <path d="M16 68c-4-1-6-4-6-7 4 0 7 3 6 7Zm5 9c-4 1-7-1-9-4 4-1 8 0 9 4Zm85-9c4-1 6-4 6-7-4 0-7 3-6 7Zm-5 9c4 1 7-1 9-4-4-1-8 0-9 4Z" fill="#a1aaa5" />
       <path d="M25 79c-7-6-10-14-10-22m0 7-6-3m9 12-7-1m85 7c7-6 10-14 10-22m0 7 6-3m-9 12 7-1" stroke="#adb1ab" strokeWidth="1.15" strokeLinecap="round" />
     </>}
   </svg>;

diff --git a/src/ui/TownNavigation.tsx b/src/ui/TownNavigation.tsx
@@ -1,13 +1,15 @@
-import { Backpack, Compass, House, Settings, Users } from 'lucide-react';
+import { House } from 'lucide-react';
 import { Button } from './index';
+import { CommandEmblem } from './CommandEmblem';
+import { MenuEmblem } from './MenuEmblem';
 import './town-navigation.css';
 
 const destinations = [
-  { id: 'home', label: 'ホーム', icon: House },
-  { id: 'dungeons', label: 'ダンジョン', icon: Compass },
-  { id: 'party', label: 'パーティ', icon: Users },
-  { id: 'bag', label: 'カバン・道具', icon: Backpack },
-  { id: 'settings', label: '設定', icon: Settings },
+  { id: 'home', label: 'ホーム' },
+  { id: 'dungeons', label: 'ダンジョン' },
+  { id: 'party', label: 'パーティ' },
+  { id: 'bag', label: 'カバン・道具' },
+  { id: 'settings', label: '設定' },
 ] as const;
 export type TownDestination = typeof destinations[number]['id'];
 
@@ -18,7 +20,7 @@ export function TownNavigation({ active, onNavigate, disabled = false, embedded 
   return <nav className={`town-navigation ${embedded ? 'hub-navigation' : 'mobile-nav'}`} aria-label={embedded ? 'ホームのメニュー' : 'モバイルメニュー'}>
     {destinations.map(item => <Button variant={active === item.id && !disabled ? 'primary' : 'secondary'} key={item.id}
       aria-current={active === item.id && !disabled ? 'page' : undefined} disabled={disabled} onClick={() => onNavigate(item.id)}>
-      <item.icon size={22} strokeWidth={1.35} /><span>{item.label}</span>
+      {item.id === 'party' ? <MenuEmblem kind="party" /> : item.id === 'bag' ? <MenuEmblem kind="bag" /> : item.id === 'settings' ? <MenuEmblem kind="settings" /> : item.id === 'dungeons' ? <CommandEmblem kind="balanced" /> : <House size={25} strokeWidth={1.5} fill="currentColor" fillOpacity={.18} aria-hidden="true" />}<span>{item.label}</span>
     </Button>)}
   </nav>;
 }

diff --git a/src/ui/enemy-carousel.css b/src/ui/enemy-carousel.css
@@ -34,7 +34,7 @@
 .enemy-orbit-actor { position: absolute; inset: 0; }
 .enemy-orbit-art { position: absolute; left: -10%; bottom: -3px; width: 120%; height: calc(100% + 12px); max-width: none; object-fit: contain; object-position: center bottom; filter: drop-shadow(0 8px 8px #15263866); -webkit-user-drag: none; }
 /* Taller portrait artwork can extend below the frame like the reference; landscape creatures keep their full silhouette. */
-.enemy-carousel:not(.enemy-carousel--multiple) .enemy-orbit-art--portrait { height: calc(100% + 78px); bottom: -44px; }
+.enemy-carousel:not(.enemy-carousel--multiple) .enemy-orbit-art--portrait { left: -45%; top: -45px; bottom: auto; width: 190%; height: auto; object-position: center top; }
 .enemy-carousel--multiple .enemy-orbit { top: 44px; bottom: 23px; }
 .enemy-carousel--multiple .enemy-orbit-art { bottom: 0; height: 100%; }
 .enemy-carousel-controls { position: absolute; z-index: 30; inset: auto 16px 6px; display: flex; align-items: center; justify-content: space-between; pointer-events: none; }

diff --git a/src/ui/town-navigation.css b/src/ui/town-navigation.css
@@ -1,5 +1,7 @@
 /* One engraved navigation vocabulary, whether inset in the frame or docked. */
 .town-navigation > .button { flex-direction: column; gap: 3px; font-family: var(--font-display); }
+.town-navigation > .button > .menu-emblem,
+.town-navigation > .button > .command-emblem { width: 29px; height: 26px; padding: 0; transform: none; filter: drop-shadow(0 1px 0 #fffdf1); }
 .hub-navigation {
   position: relative;
   z-index: 6;
@@ -26,9 +28,9 @@
   white-space: nowrap;
 }
 .hub-navigation > .button--primary {
-  color: #4e6174;
-  border-color: #c4cecf;
-  background: linear-gradient(135deg,#e2e8e6,#d8e0e1);
+  color: #515f70;
+  border-color: #c5c6c7;
+  background: linear-gradient(135deg,#e4e5e1,#d6dadd);
   box-shadow: inset 0 1px 0 #f5f7f1;
 }
 .hub-navigation > .button:hover:not(:disabled) { color: #40576c; background: #e4e8e3; border-color: #bec7c7; }

diff --git a/src/ui/command-emblem.css b/src/ui/command-emblem.css
@@ -1,0 +1,9 @@
+.command-emblem { display: block; overflow: visible; color: #727c8c; }
+.command-emblem__light { stop-color: #f3f0e6; }
+.command-emblem__middle { stop-color: #c7cbd0; }
+.command-emblem__shade { stop-color: #8d97a5; }
+.command-emblem__liquid { fill: #8caca9; fill-opacity: .8; }
+.button.is-selected .command-emblem, .battle-advance-control .command-emblem { color: #e7e3d9; }
+.button.is-selected .command-emblem__light, .battle-advance-control .command-emblem__light { stop-color: #fffdf0; }
+.button.is-selected .command-emblem__middle, .battle-advance-control .command-emblem__middle { stop-color: #e4e4de; }
+.button.is-selected .command-emblem__shade, .battle-advance-control .command-emblem__shade { stop-color: #a7afbb; }

diff --git a/src/ui/index.tsx b/src/ui/index.tsx
@@ -13,6 +13,7 @@ export { EnemyCarousel } from './EnemyCarousel';
 export { MenuEmblem } from './MenuEmblem';
 export { SceneEffects } from './SceneEffects';
 export { TownNavigation } from './TownNavigation';
+export { CommandEmblem } from './CommandEmblem';
 
 export type ButtonVariant = 'primary' | 'secondary' | 'danger' | 'icon';
 export interface ButtonProps extends ButtonHTMLAttributes<HTMLButtonElement> { variant?: ButtonVariant; size?: 'sm' | 'md' | 'lg'; selected?: boolean }
